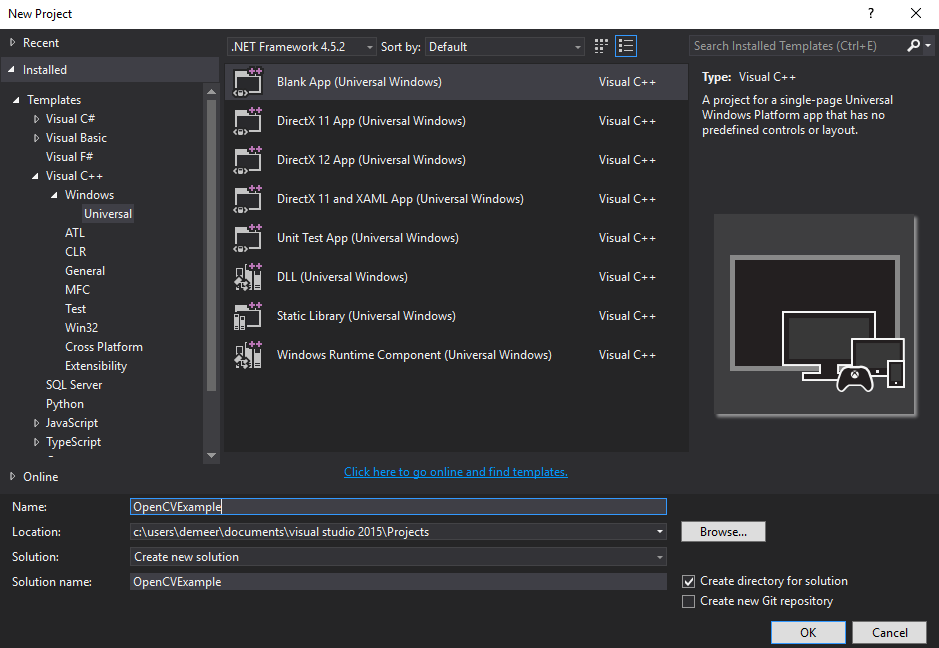
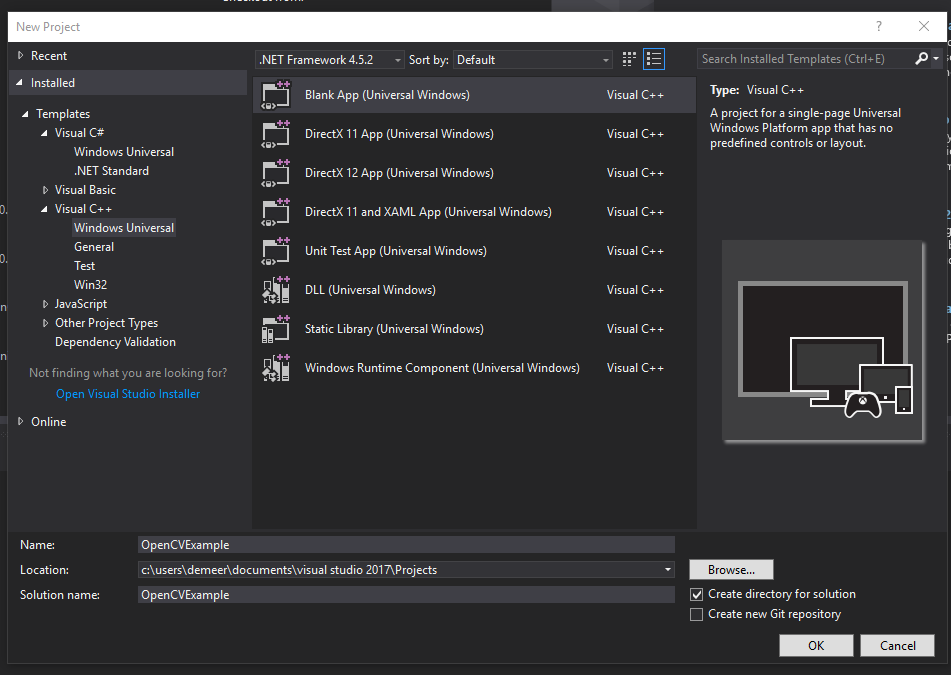
VS2017 Updates to docs (#656)
* Fixed typo

* renamed Device I/O controller to Custom Device Accessor

* fixed link to Get Started for QCD on Device Options page.

* added virtual drive ejection explanation

* added instructions for determining PC architecture to QCD getting started instructions

* Fixed Dragonboard setup typos

* Added image to show usb connection between DragonBoard and PC during the board setup process

* added Dashboard installation to the DragonBoard setup process

* Added correct file names for DragonBoard Update Tool installation files

* Force download links for DragonBoard Update Tool to open in new tab or window (depending on your browser)

* Added documentation fixes for DragonBoard Getting Started: deploy your first app, i.e. better explanations, fixing typos, etc.

* Added links for explanation of the DispatcherTimer

* removed 'is very simple' from Getting Started code

* Added redirect link

* Updating OpenCV Sample doc for VS2017

* Changes to CognitiveServicesExample for VS2017

* Removed 4. from list that didn't have any other numbering

diff --git a/_includes/getstarted/GetStartedStep1-db-insider.htm b/_includes/getstarted/GetStartedStep1-db-insider.htm
@@ -52,26 +52,48 @@
             <div class="row">
               <div class="col-xs-24 col-md-12">
                 <ol class="inline-list">
-                  <li>Download the DragonBoard Update Tool by selecting the download link appropriate for your PC: <a href="https://developer.qualcomm.com/download/db410c/windows-10-iot-update-tool-dragonboard-410c-x86.zip">x86</a> or <a href="https://developer.qualcomm.com/download/db410c/windows-10-iot-update-tool-dragonboard-410c-x64.zip">x64</a></li>
+                  <li>Download the DragonBoard Update Tool by selecting the download link appropriate for your PC: <a href="https://developer.qualcomm.com/download/db410c/windows-10-iot-update-tool-dragonboard-410c-x86.zip" target="_blank">x86</a> or <a href="https://developer.qualcomm.com/download/db410c/windows-10-iot-update-tool-dragonboard-410c-x64.zip" target="_blank">x64</a>. To determine whether your PC is x86 or x64, follow this <a href="https://www.tenforums.com/tutorials/4399-system-type-32-bit-x86-64-bit-x64-windows-10-a.html">tutorial</a>. While the screenshots are outdated, the directions still apply.</li>
                   <li>Right click on the downloaded zip file and select extract all. This will create a new folder with the same name as the downloaded zip file.</li>
-                  <li>Open the folder and double click the setup.exe file.</li>
+                  <li>Open the folder and double-click on the only file available: either DragonBoardUpdateTool_X86 or DragonBoardUpdateTool_X64.</li>
                   <li>
                     <p>Follow the instructions and when prompted allow the USB driver to install by clicking "install".</p>
                     <p><img alt="screenshot: install usb driver" class="image-border" src="{{site.baseurl}}/Resources/images/SetupDB410c/DB410c_UpdateTool_DriverInstall.png" /></p>
                   </li>
                   <li>The installer will create a shortcut to the DragonBoard Update Tool on your desktop and in your start menu, under Qualcomm->DragonBoardUpdate Tool.</li>
-                </ol>                
+                </ol>
             </div>
           </div>
         </section>
       </div>
     </div>
-
+    <div class="row">
+      <div class="col-xs-24">
+        <section class="section">
+          <div class="section-header">
+            <h2 class="section-title"><span class="step">3</span>Download and install Windows 10 IoT Core Dashboard<span class="pull-right"><a id="download-and-install-toggle" class="text-body toggle-button" onClick="hideDiv('download-and-install')">Hide</a></span></h2>
+          </div>
+          <div class="section-body toggle-section" id="download-and-install">
+            <div class="row">
+              <div class="col-xs-24 col-md-12">
+                <p>You will use the Dashboard to access your device through the "My devices" tab once you connect it to your network. We will cover the details of connecting to your device through Windows Device Portal, SSH, and PowerShell in the next step (<a href="GetStartedStep2.htm"> Set up your device </a>).</p>
+                <p>By downloading and using the Windows 10 IoT Core Dashboard you agree to the <a href="http://go.microsoft.com/fwlink/?LinkID=703960&clcid=0x4809" target="_blank">license terms</a> and <a href="http://go.microsoft.com/fwlink/?LinkId=521839" target="_blank">privacy statement</a> for Windows 10 IoT Core Dashboard.</p>
+                <div class="btn-group">
+                  <a href="http://go.microsoft.com/fwlink/?LinkID=708576" id="device-center-link" class="btn btn-primary">Download Dashboard</a>
+                </div>
+              </div>
+              <div class="col-xs-24 col-md-11">
+                <img alt="dashboard for windows 10 iot core" src="{{site.baseurl}}/Resources/images/IoTDashboard/IoTDashboard_WelcomePage.PNG">
+              </div>
+            </div>
+          </div>
+        </section>
+      </div>
+    </div>
      <div class="row">
       <div class="col-xs-24">
         <section class="section">
           <div class="section-header">
-            <h2 class="section-title"><span class="step">3</span>Download the DragonBoard Windows 10 IoT Core Image<span class="pull-right"><a id="get-windows-iotcore-toggle" class="text-body toggle-button" onClick="hideDiv('get-windows-iotcore')">Hide</a></span></h2>
+            <h2 class="section-title"><span class="step">4</span>Download the DragonBoard Windows 10 IoT Core Image<span class="pull-right"><a id="get-windows-iotcore-toggle" class="text-body toggle-button" onClick="hideDiv('get-windows-iotcore')">Hide</a></span></h2>
           </div>
           <div class="section-body toggle-section" id="get-windows-iotcore">
             <ol class="inline-list">
@@ -83,10 +105,10 @@
                     </div>
                     <p>You need a valid Microsoft Account and need to be signed up for the Windows Insider Program to to download the Insider Preview.
                     Visit the <a href="http://go.microsoft.com/fwlink/p/?linkID=532967" target="_blank">downloads page</a> for more details.</p>
-                  </li>                
+                  </li>
                   <li>
                     <p>Click the desired image under the "Windows 10 IoT Core Insider Preview". You need a Microsoft account and must be part of the Windows Insider Program to gain access to this image. Windows Insider Program is free and anyone can join it.
-                    Once you're signed up, select the build version (a higher number indicates a newer build) and your device, click "Download Now".</p> 
+                    Once you're signed up, select the build version (a higher number indicates a newer build) and your device, click "Download Now".</p>
                   </li>
                   <li>Double click the downloaded ISO file. This will automatically mount the ISO as a new virtual CD-drive. (Look for a new CD-ROM drive)</li>
                   <li>
@@ -96,7 +118,7 @@
                     <p><img alt="ffu for windows 10 iot core for dragonboard 410c" class="image-border" src="{{site.baseurl}}/Resources/images/SetupDB410c/DB410c_FlashFile_FFU.JPG" /></p>
                     <p>Unlike Raspberry Pi 2 or 3 and Minnowboard Max, we will not be applying this FFU to an SD card. Instead, we will use this flash file on the next page.</p>
                   </li>
-                  <li>Eject the virtual CD-drive when done.</li>
+                  <li>Eject the virtual CD-drive when done by clicking on 'This PC' in the navigation pane of file explorer, then right click the virtual drive and click Eject.</li>
                 </ol>
           </div>
         </section>
@@ -111,7 +133,7 @@
             <p>
               <span class="win-color-fg-green">Step 1 of 4: Get the tools is complete.</span>
               Set up your device <span class="win-color-fg-secondary">is next.</span>
-            </p> 
+            </p>
             <div class="btn-group">
               <a href="GetStartedStep2.htm" class="btn btn-primary">Next</a>
             </div>

diff --git a/en-US/Samples/OpenCV.md b/en-US/Samples/OpenCV.md
@@ -23,7 +23,7 @@ Even if you download the sample, code, you'll need to follow the steps in **Comp
 
 * You will need your device's IP address when connecting to it remotely.
 
-* Make sure you have the C++ components for Visual Studio. To check, open the Start Menu, type in **Add or remove programs**. Hit enter and navigate to Visual Studio. Click **Modify** and check to make sure you have the below components selected. If not, select them and update your installation.
+* Make sure you have the C++ components for Visual Studio. To check, open the Start Menu, type in **Visual Studio Installer** and hit enter. Once the Visual Studio Installer opens, click **Modify** under your installed version of Visual Studio. Check to make sure you have the below components selected. If not, select them and update your installation.
 
     ![C++ Components]({{site.baseurl}}/Resources/images/opencv/get_cpp.png)
 
@@ -43,9 +43,9 @@ Even if you download the sample, code, you'll need to follow the steps in **Comp
 
 ## Compile the OpenCV Libraries
 ___
-1. Download and open the OpenCV Solution
+1. Download the Microsoft fork of OpenCV from GitHub
 
-    Download the working OpenCV library from [GitHub](https://github.com/Microsoft/opencv/tree/vs2015-samples). Unzip it to a place you can remember it, and **copy the folder's path (i.e. C:/path/to/opencv/)** for the next step.
+    Download Microsoft's fork of the OpenCV library from [GitHub](https://github.com/Microsoft/opencv/tree/vs2015-samples). Unzip it to a place you can remember it, and **copy the folder's path (i.e. C:/path/to/opencv/)** for the next step.
 
 2. Create the OpenCV environment variable
 

diff --git a/en-US/Samples/CognitiveServices.md b/en-US/Samples/CognitiveServices.md
@@ -24,9 +24,9 @@ You will need your device's IP address when connecting to it remotely.
 1.  Start Visual Studio 2017
 2.  Create a new project with **(File \| New Project...)**
 
-    In the **New Project** dialog, navigate to **Universal** as shown below (in the left pane in the dialog: Templates \| Visual C# \| Windows \| Universal).
+    In the **New Project** dialog, navigate to **Universal** as shown below (in the left pane in the dialog: Templates \| Visual C# \| Windows Universal).
 
-3.  Select the template **Blank App (Windows Universal)**
+3.  Select the template **Blank App (Universal Windows)**
 
     Note that we call the app CogntiveServicesExample. You can name it something different, but you will have to adjust sample code that references CognitiveServicesExample as well.
 
@@ -130,7 +130,6 @@ Open MainPage.xaml.cs. At the top of the , directly under the "using" statements
 using Windows.Graphics.Imaging;
 using Microsoft.ProjectOxford.Emotion;
 using Microsoft.ProjectOxford.Emotion.Contract;
-using Microsoft.ProjectOxford.Common.Contract;
 using System.Threading.Tasks;
 using System.Diagnostics;
 using Windows.UI.Xaml.Media.Imaging;
